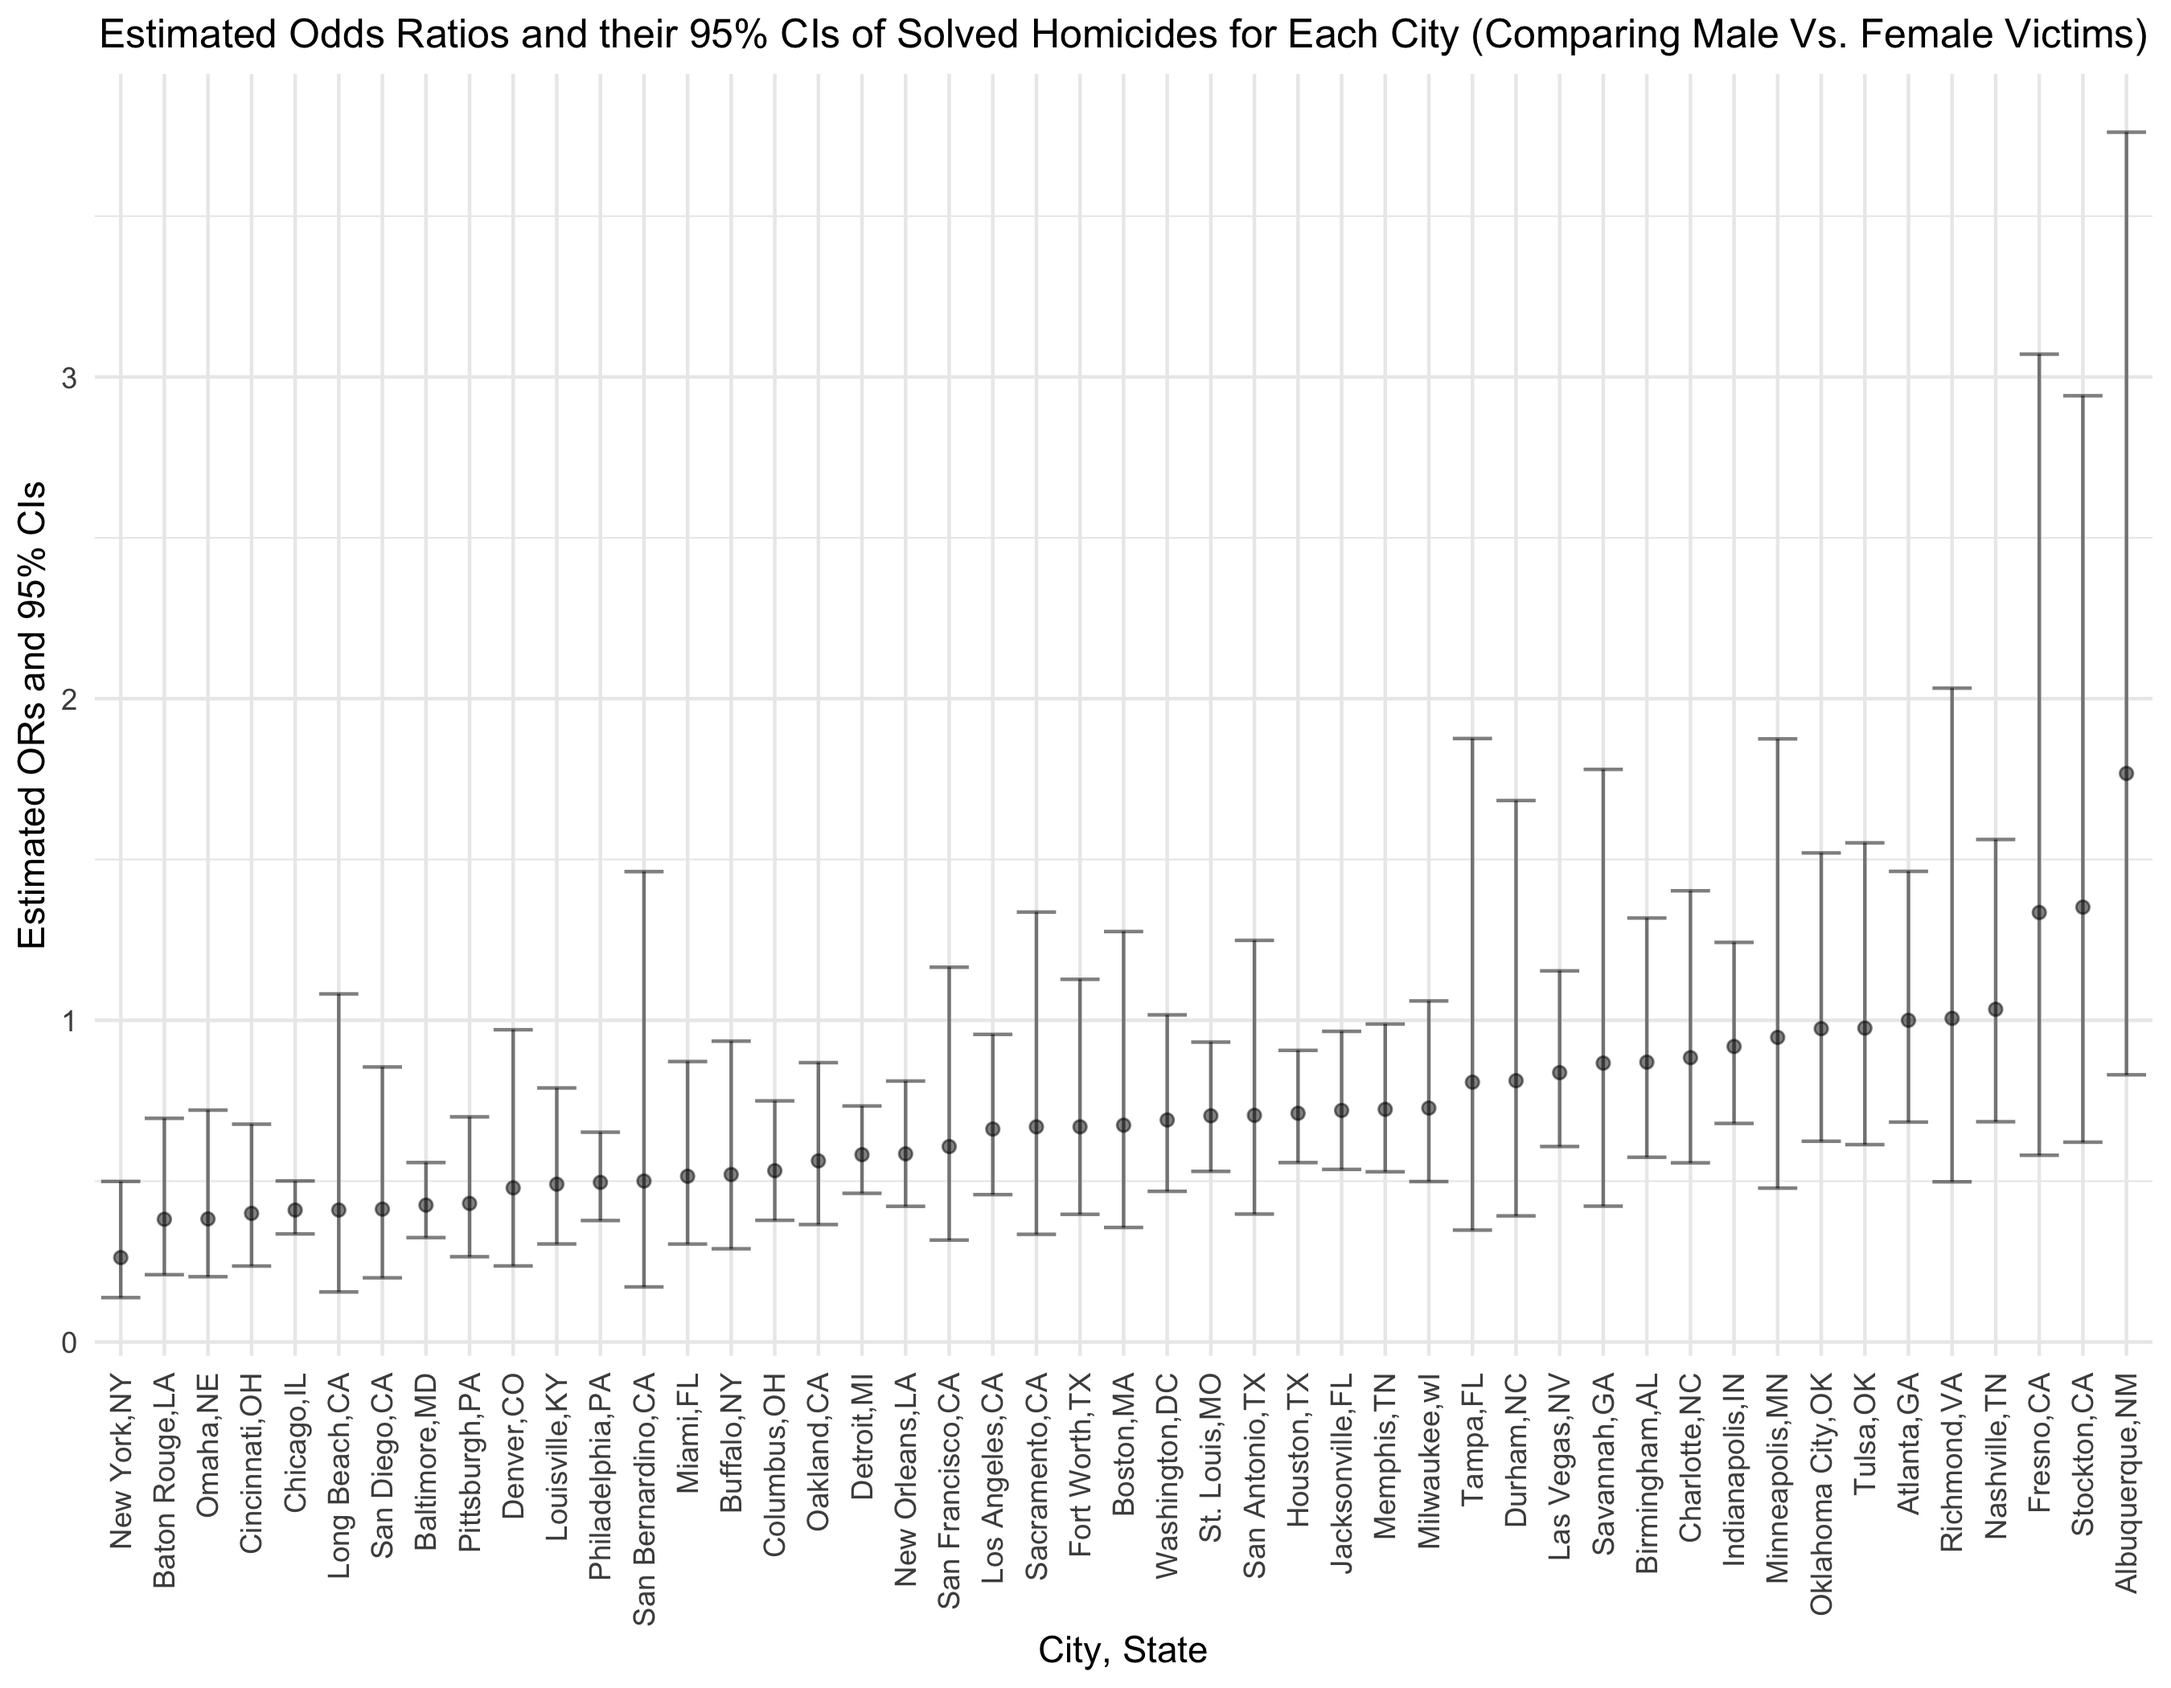
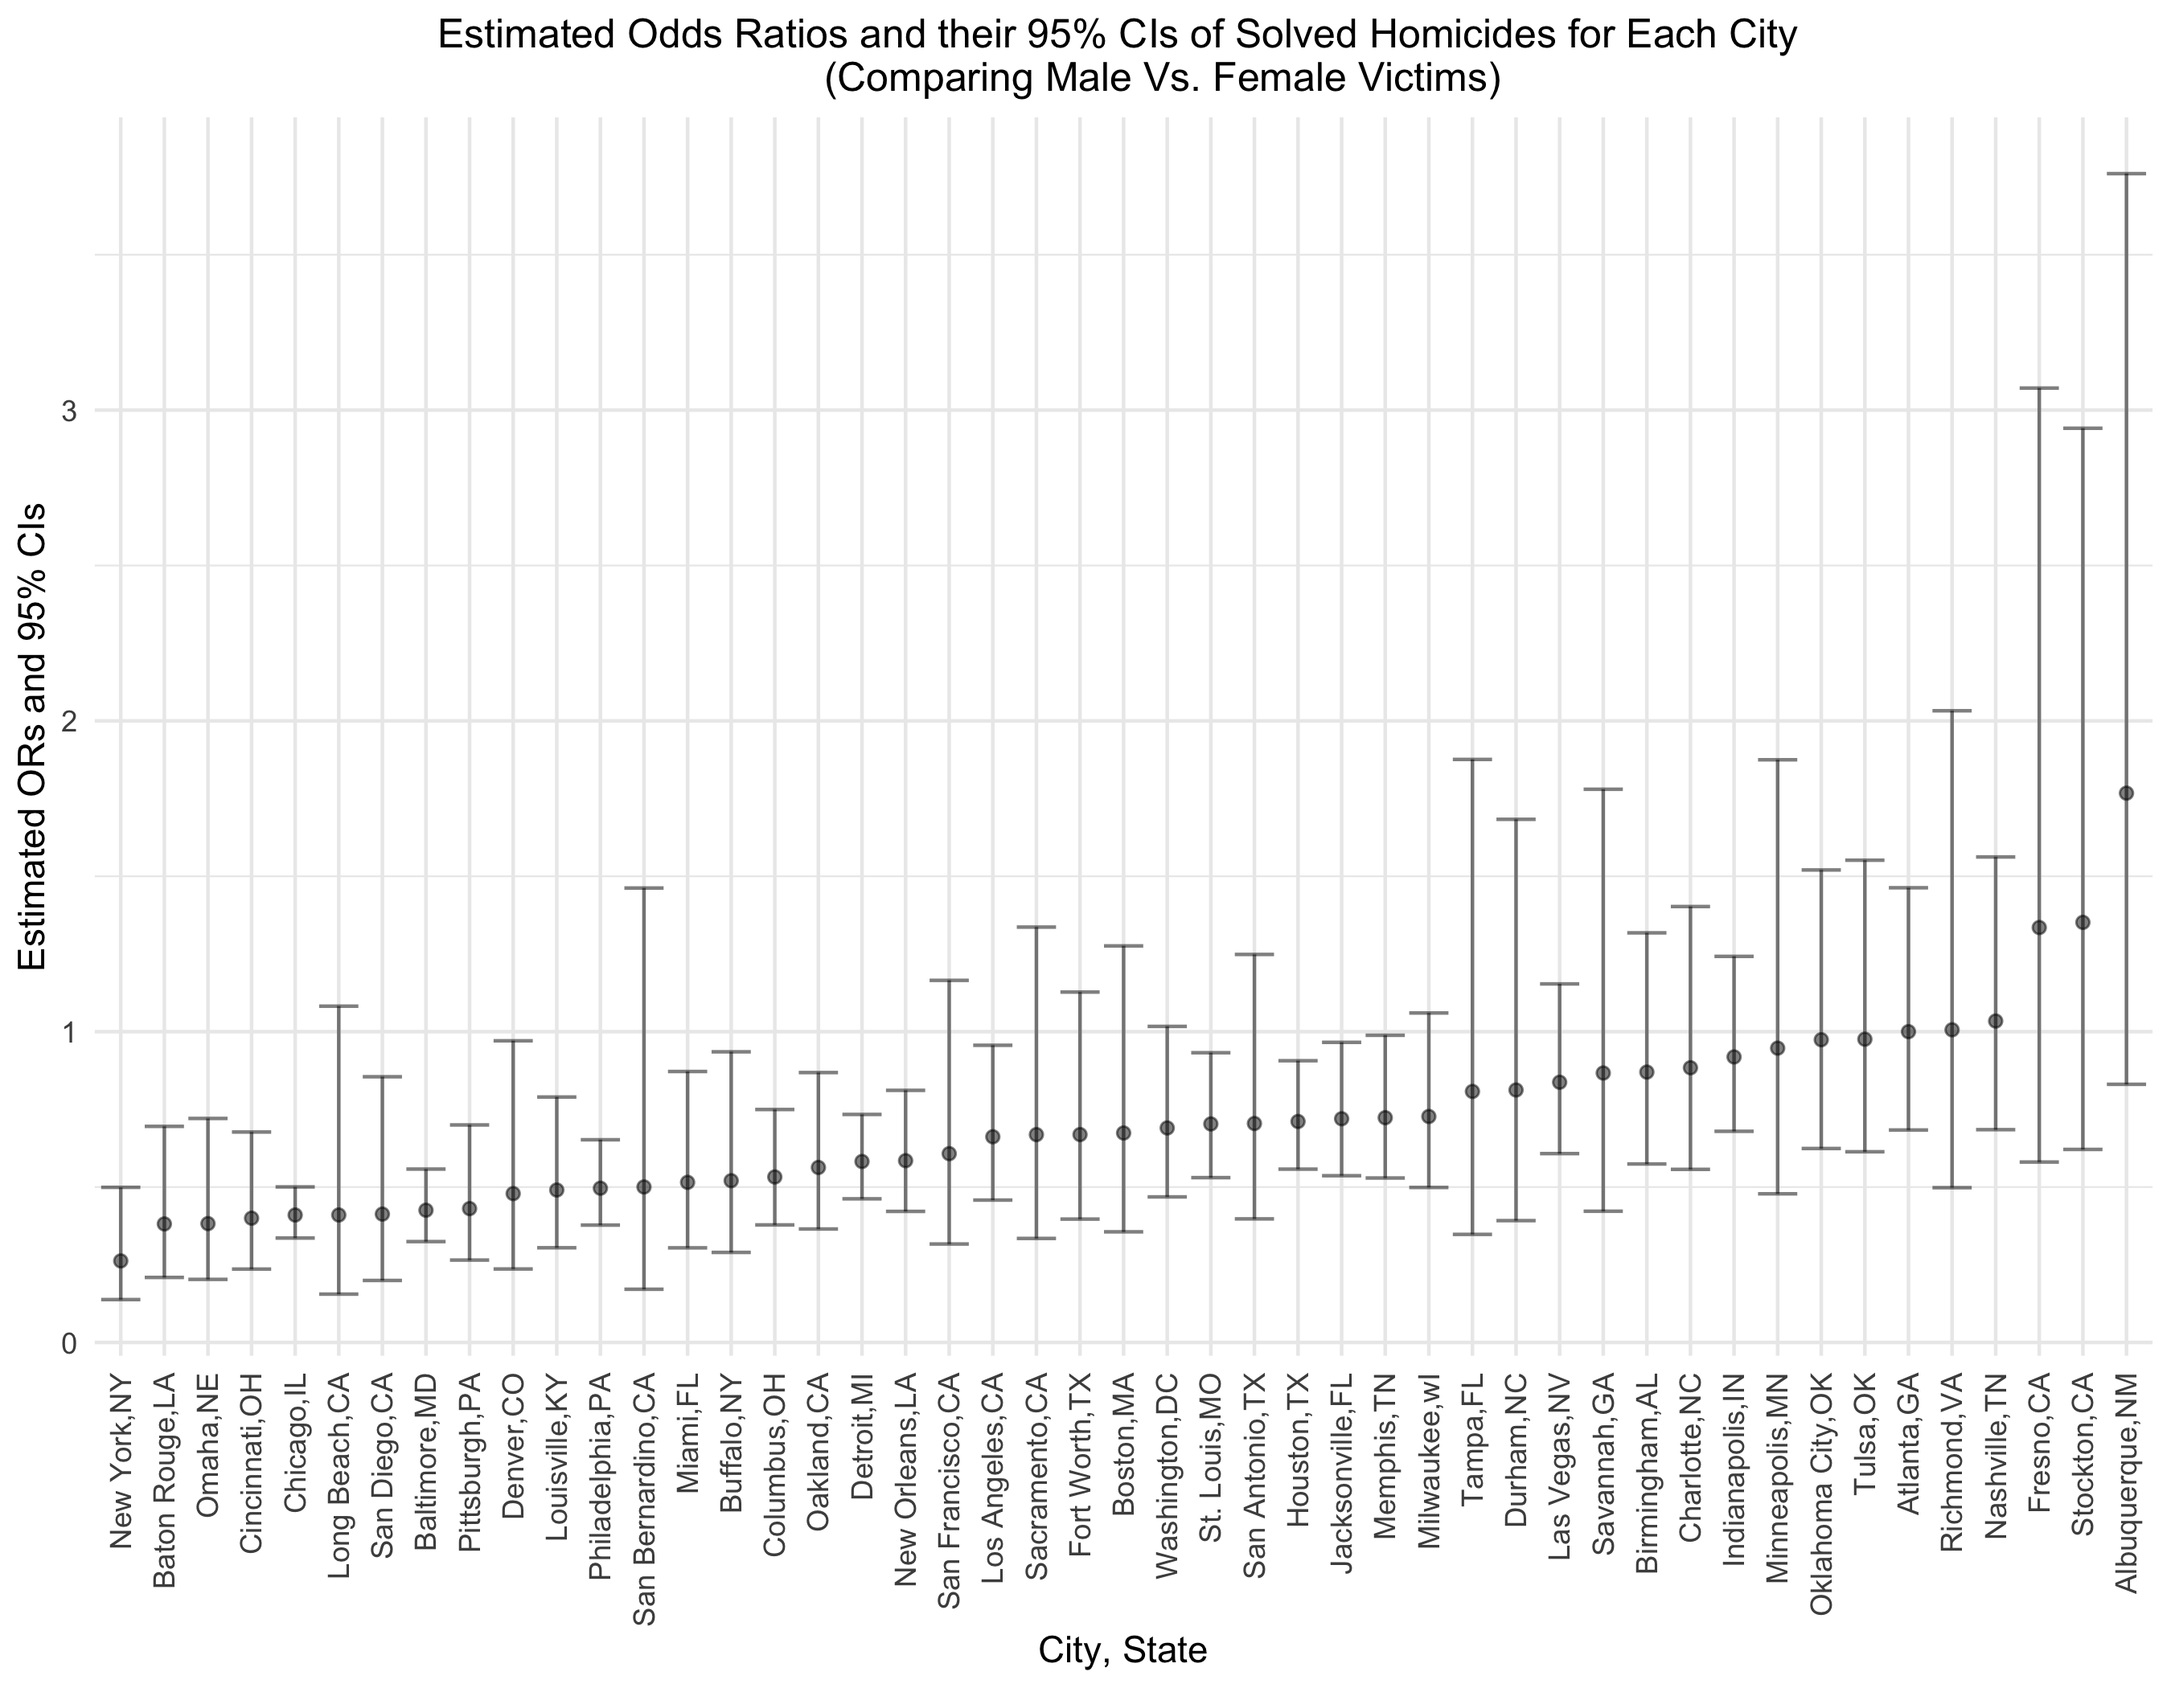
crossvalidation plot

diff --git a/p8105_hw6_kb3246.md b/p8105_hw6_kb3246.md
@@ -167,7 +167,8 @@ homicides_or_plot=
   geom_point(alpha = 0.5)+
   geom_errorbar(aes(ymin = CI_lower, ymax = CI_upper),
                 alpha = 0.5)+ 
-  labs(title = "Estimated Odds Ratios and their 95% CIs of Solved Homicides for Each City (Comparing Male Vs. Female Victims)", 
+  labs(title = "Estimated Odds Ratios and their 95% CIs of Solved Homicides for Each City 
+       (Comparing Male Vs. Female Victims)", 
        x = "City, State", 
        y = "Estimated ORs and 95% CIs")+
   theme(plot.title = element_text(size = 12, hjust = 0.5),
@@ -176,7 +177,7 @@ homicides_or_plot=
 homicides_or_plot
 ```
 
-<img src="p8105_hw6_kb3246_files/figure-gfm/OR plot-1.png" width="95%" />
+<img src="p8105_hw6_kb3246_files/figure-gfm/OR plot-1.png" width="90%" />
 
 ### About the Plot
 
@@ -270,7 +271,7 @@ model1_plot =
 model1_plot
 ```
 
-<img src="p8105_hw6_kb3246_files/figure-gfm/model1 plot-1.png" width="95%" />
+<img src="p8105_hw6_kb3246_files/figure-gfm/model1 plot-1.png" width="90%" />
 
 ## Model 2
 
@@ -326,9 +327,35 @@ birthweight_cv = crossv_mc(birthweight, 100) %>%
   mutate(model1_cv = map(train, ~lm(bwt ~ wtgain, data = .x)),
          model2_cv = map(train, ~lm(bwt ~ blength + gaweeks, data = .x)),
          model3_cv = map(train, ~lm(bwt ~ bhead + blength + babysex + bhead*blength + bhead*babysex + blength*babysex + bhead*blength*babysex, data = .x))) %>% 
-  mutate(rmse_m1 = map2_dbl(model1_cv, test, ~rmse(model = .x, data = .y)),
-         rmse_m2 = map2_dbl(model2_cv, test, ~rmse(model = .x, data = .y)), 
-         rmse_m3 = map2_dbl(model3_cv, test, ~rmse(model = .x, data = .y)))
+  mutate(rmse_model1 = map2_dbl(model1_cv, test, ~rmse(model = .x, data = .y)),
+         rmse_model2 = map2_dbl(model2_cv, test, ~rmse(model = .x, data = .y)), 
+         rmse_model3 = map2_dbl(model3_cv, test, ~rmse(model = .x, data = .y)))
 ```
 
 ### Crossvalidation Residual Plot
+
+``` r
+cv_plot= 
+  birthweight_cv %>%
+  select(starts_with("rmse")) %>% 
+  pivot_longer(everything(), 
+               names_to = "model",
+               values_to = "rmse",
+               names_prefix = "rmse_") %>% 
+  ggplot(aes(x = model, y = rmse)) + 
+  geom_violin()+
+  labs(title = "Comparing the Birthweight Models",
+      x = "Model",
+      y = "rmse")+
+  theme(plot.title = element_text(size = 12, hjust = 0.5))
+  
+
+cv_plot
+```
+
+<img src="p8105_hw6_kb3246_files/figure-gfm/cv plot-1.png" width="90%" />
+
+#### Inference About the Models
+
+Here, it is evident that `model3` has the lowest RMSE, and therefore,
+would be the best model among the three.
